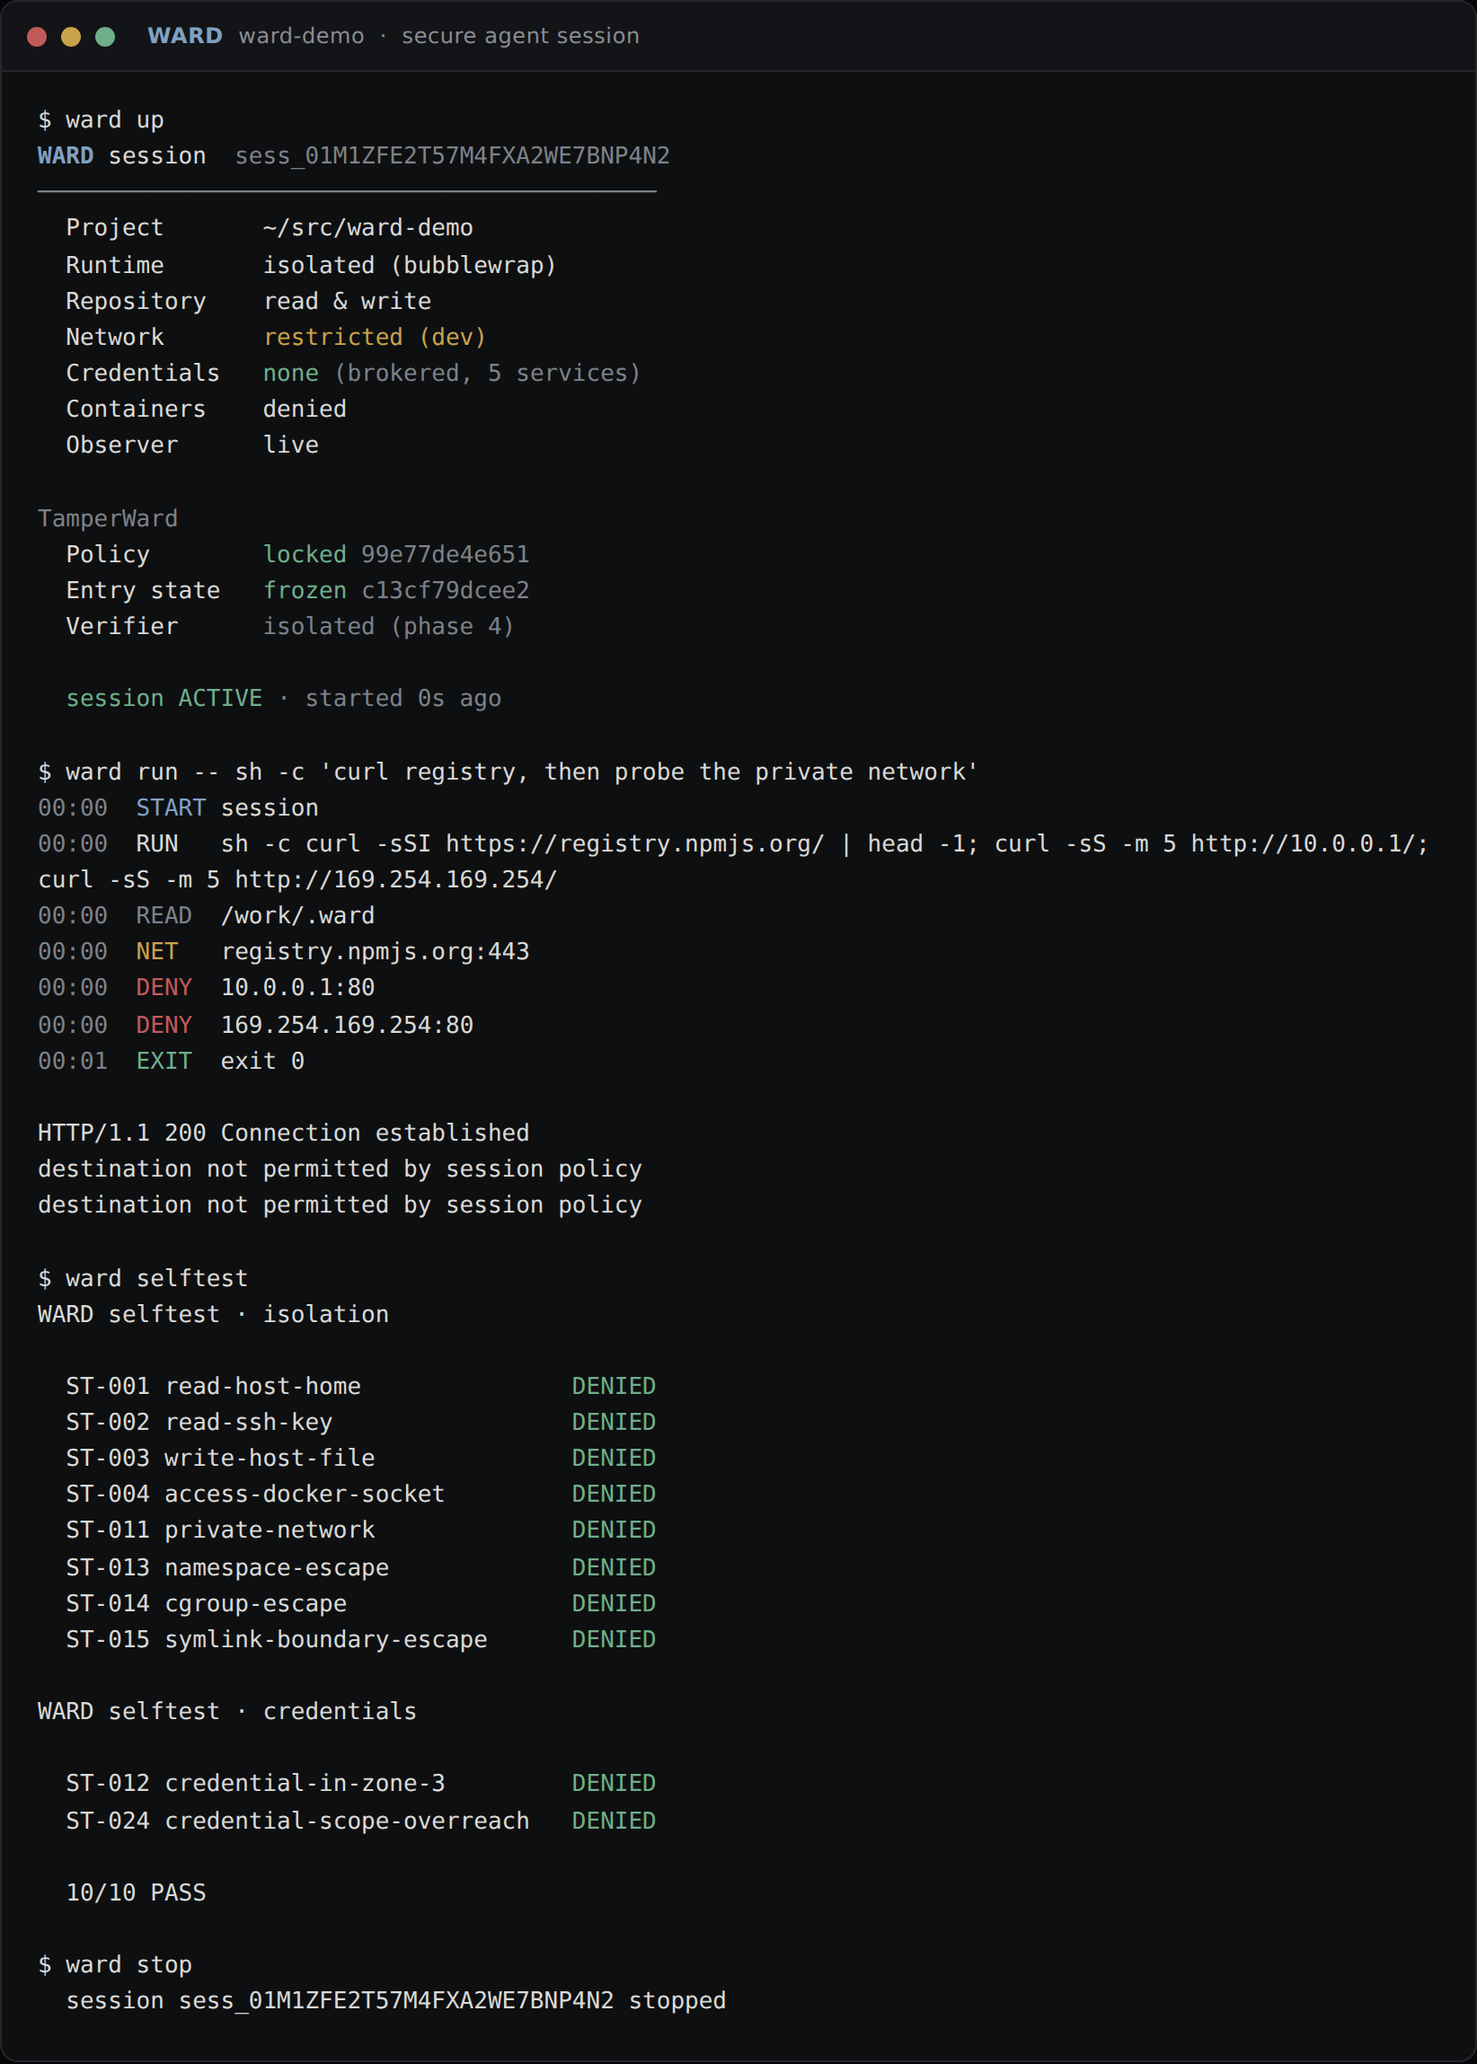
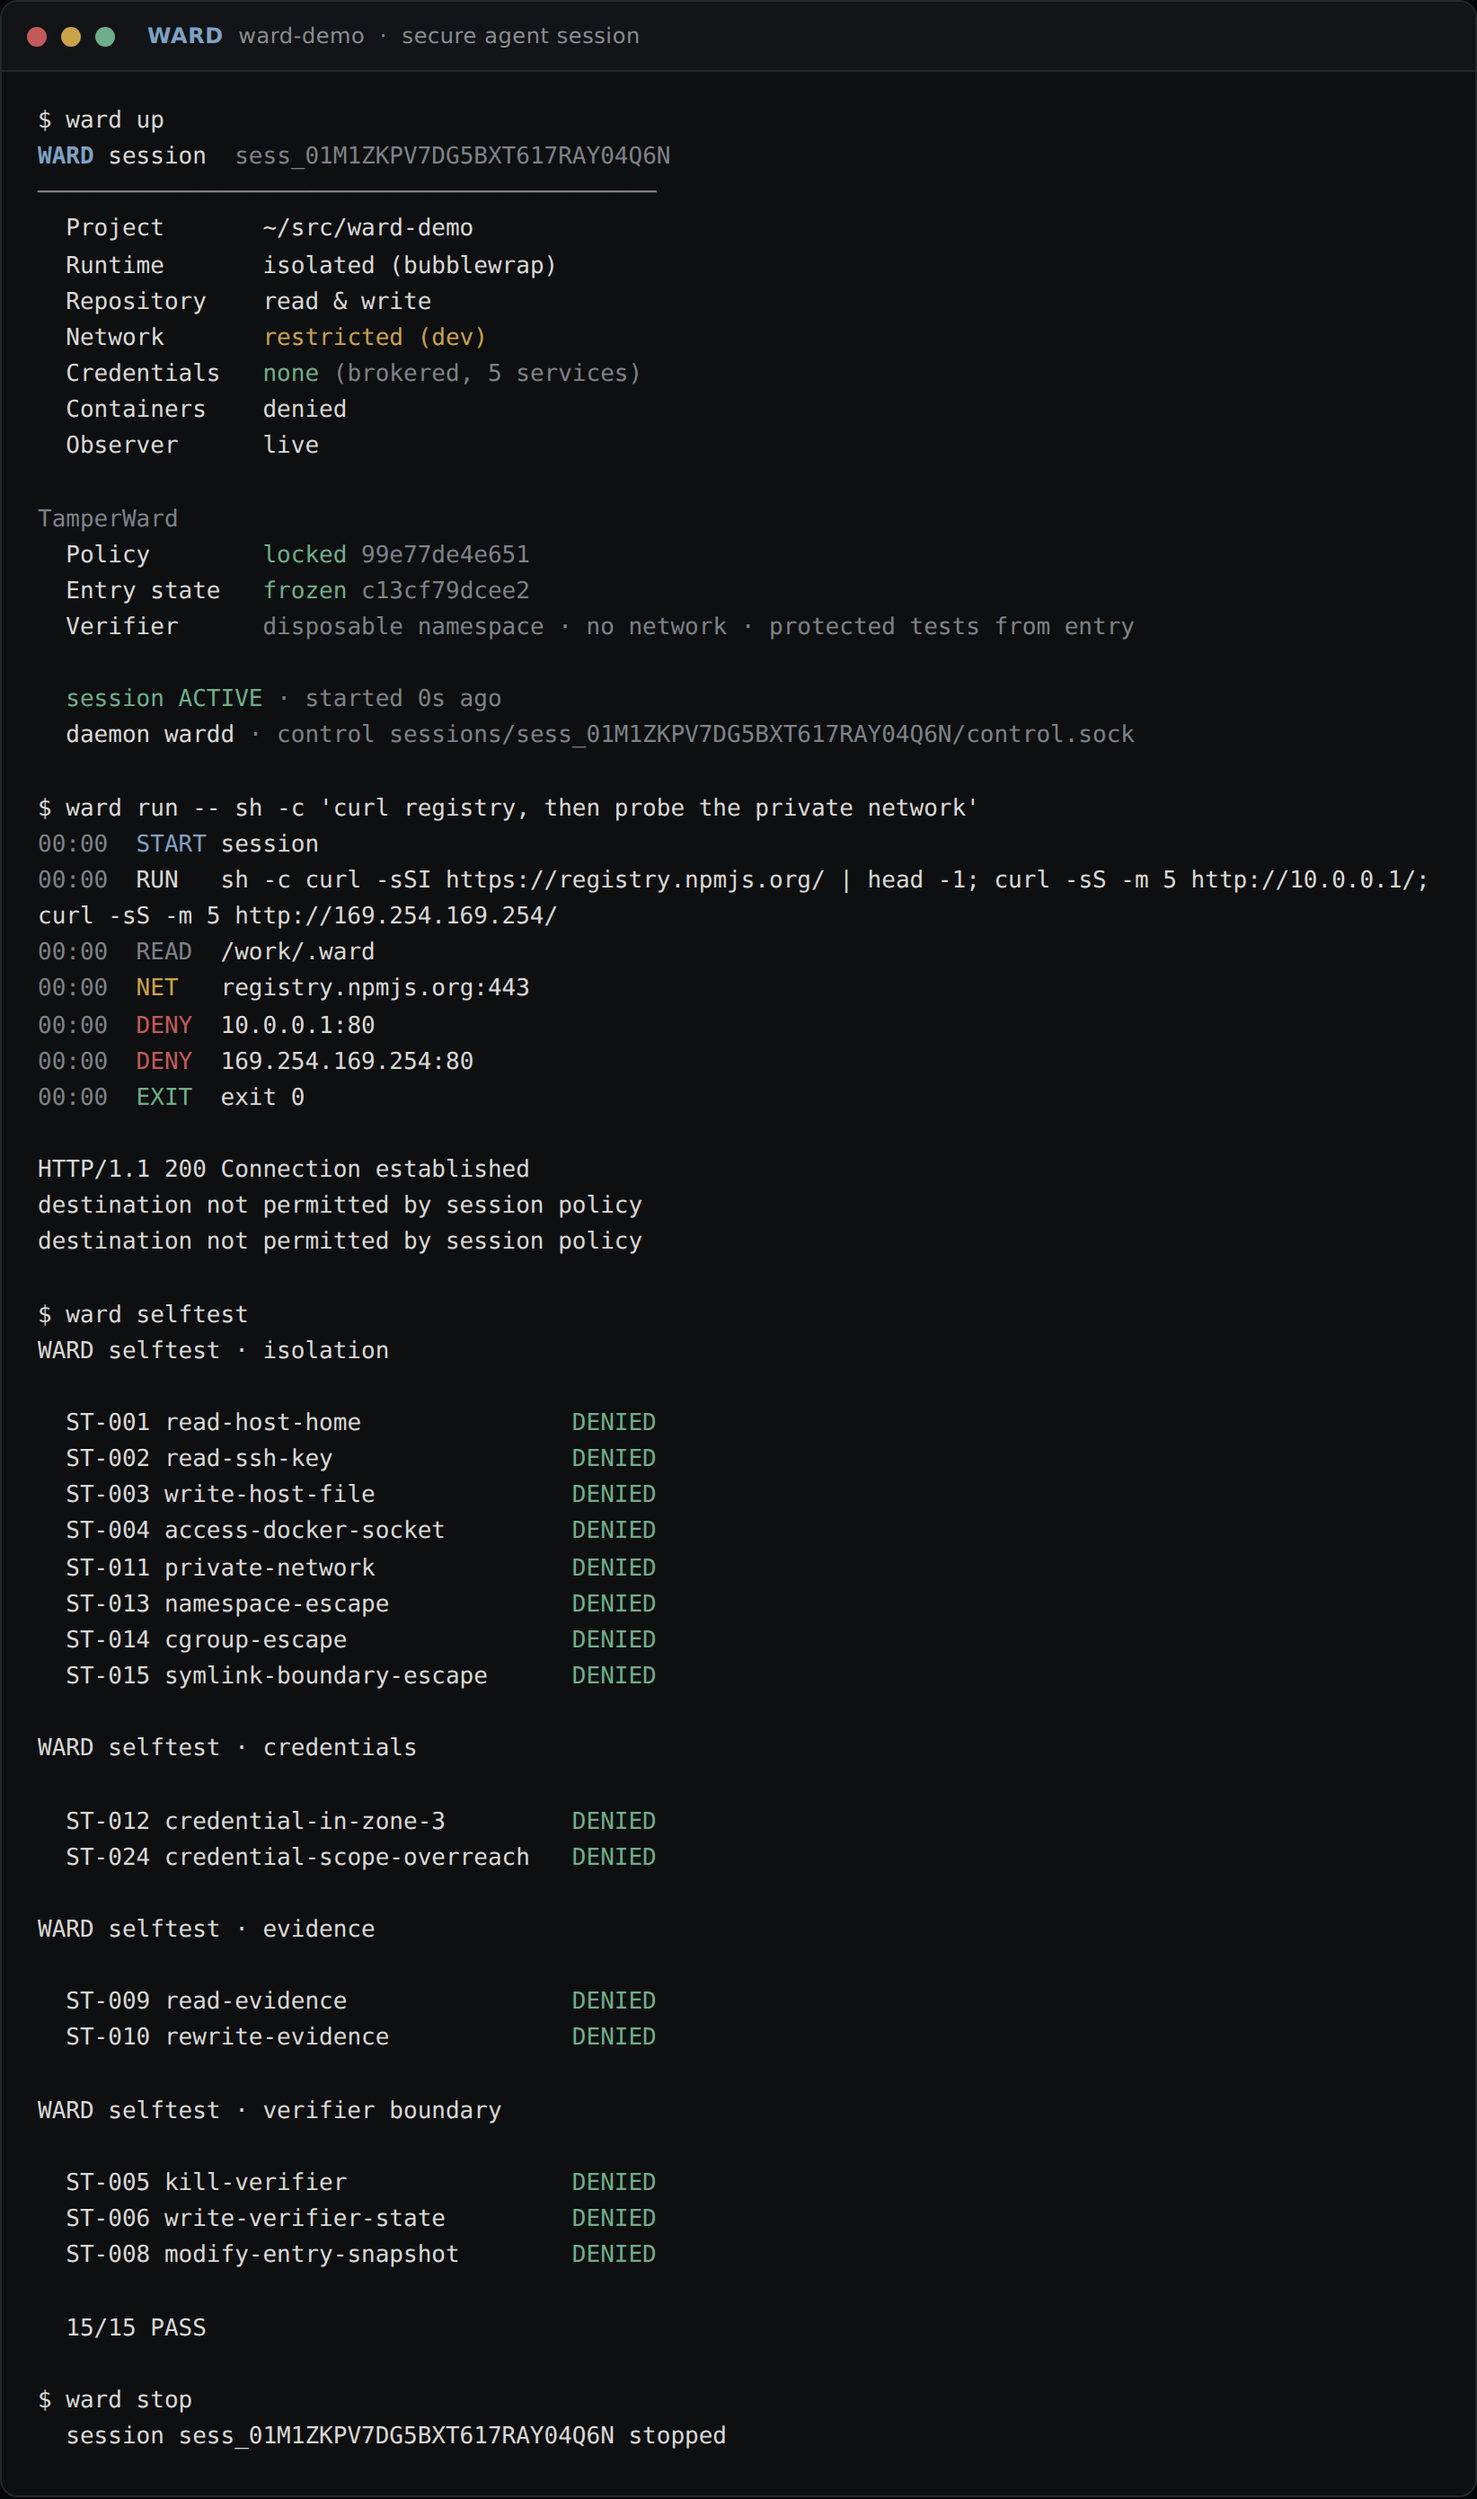
README: refresh the session screenshot with the daemon line and the 15/15 self-test (#46)
Built using Claude on behalf of Hexrift

diff --git a/README.md b/README.md
@@ -43,7 +43,7 @@ commands inside an isolated sandbox with live kernel-origin file events, routes 
 network request through a per-session policy proxy, and records everything to an
 append-only, hash-chained event log that persists across commands.
 
-![A WardOS session: security panel, live observer with network decisions, isolation self-test](assets/ward-session.png)
+![A WardOS session: security panel with the daemon line, live observer with network decisions, the four self-test groups at 15/15](assets/ward-session.png)
 
 Claude Code runs inside that sandbox unmodified. The model-API key stays on the host:
 the agent gets a placeholder and a base URL on the session proxy, which injects the real
